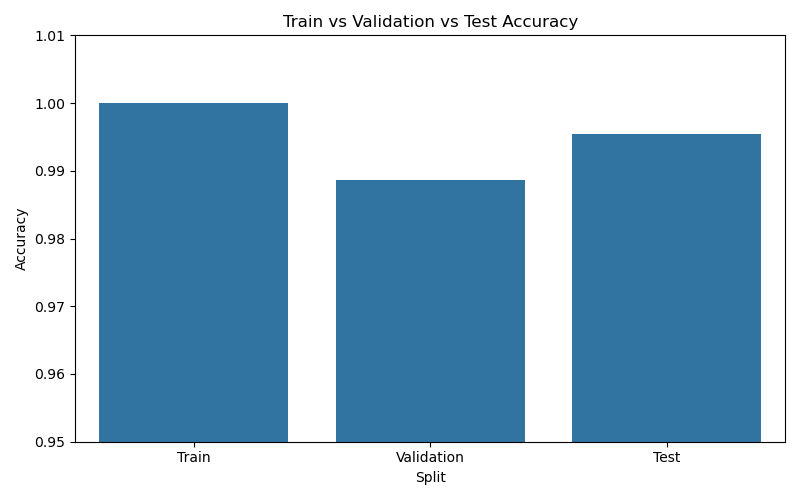
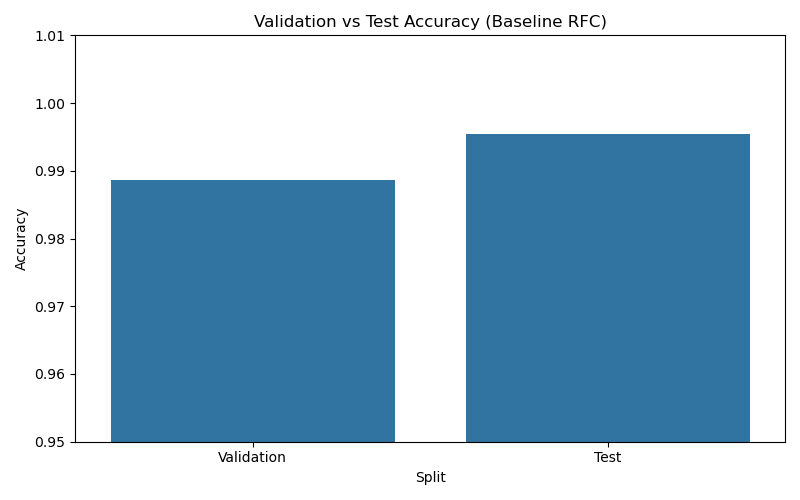
More stull and the things

diff --git a/Visual.py b/Visual.py
@@ -110,11 +110,10 @@ plt.close()
 changed = np.sum(baseline_preds != tuned_preds)
 print(f"🔁 Predictions changed between Baseline and Tuned RFC: {changed} / {len(y_test)}")
 
-# 📊 Train vs Validation vs Test Accuracy
+# 📊 Validation vs Test Accuracy (more meaningful)
 acc_df = pd.DataFrame({
-    "Split": ["Train", "Validation", "Test"],
+    "Split": ["Validation", "Test"],
     "Accuracy": [
-        accuracy_score(y_train, baseline_model.predict(X_train)),
         accuracy_score(y_val, baseline_model.predict(X_val)),
         accuracy_score(y_test, baseline_model.predict(X_test)),
     ]
@@ -122,26 +121,26 @@ acc_df = pd.DataFrame({
 
 plt.figure(figsize=(8, 5))
 sns.barplot(data=acc_df, x="Split", y="Accuracy")
-plt.title("Train vs Validation vs Test Accuracy")
+plt.title("Validation vs Test Accuracy - Baseline RFC")
 plt.ylim(0.95, 1.01)
 plt.tight_layout()
-plt.savefig("accuracy_comparison.png")
+plt.savefig("val_test_accuracy_comparison.png")
 plt.close()
 
-# 📉 Learning Curve Plot
+# 📉 Learning Curve Plot (Validation vs Test Accuracy)
 train_sizes, train_scores, val_scores = learning_curve(baseline_model, X_trainval, y_trainval, cv=3, train_sizes=np.linspace(0.1, 1.0, 10))
-train_means = np.mean(train_scores, axis=1)
 val_means = np.mean(val_scores, axis=1)
+test_means = [accuracy_score(y_test, baseline_model.predict(X_test))] * len(train_sizes)
 
 plt.figure(figsize=(10, 6))
-plt.plot(train_sizes, train_means, label="Training Accuracy")
 plt.plot(train_sizes, val_means, label="Validation Accuracy")
+plt.plot(train_sizes, test_means, label="Test Accuracy")
 plt.xlabel("Training Set Size")
 plt.ylabel("Accuracy")
-plt.title("Learning Curve: Baseline RFC")
+plt.title("Learning Curve: Validation vs Test Accuracy")
 plt.legend()
 plt.tight_layout()
-plt.savefig("learning_curve.png")
+plt.savefig("learning_curve_val_test.png")
 plt.close()
 
 # 🧩 Confusion Matrix on Validation Set
